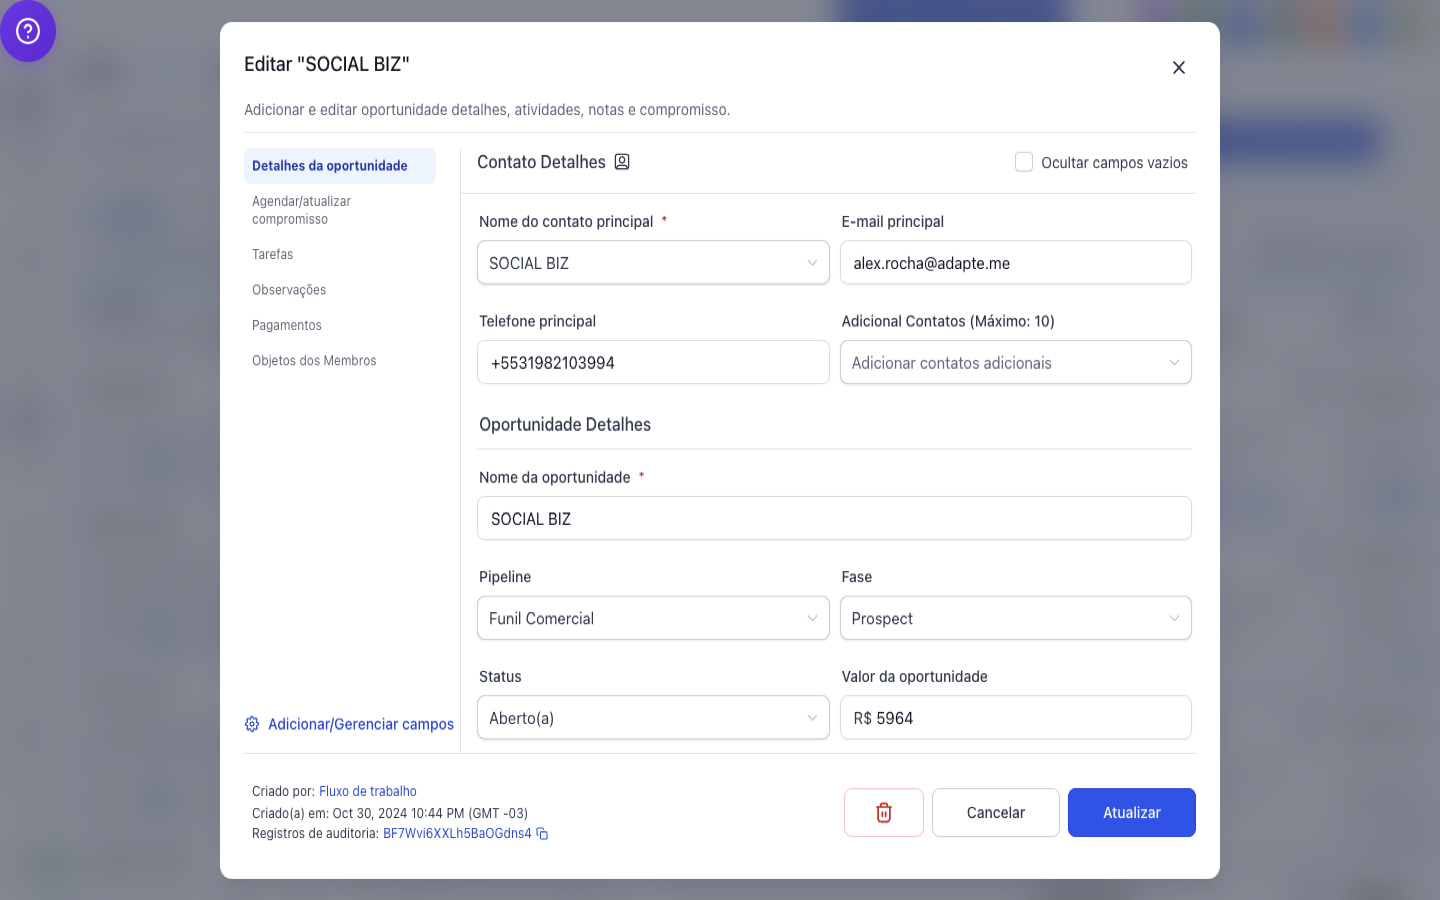
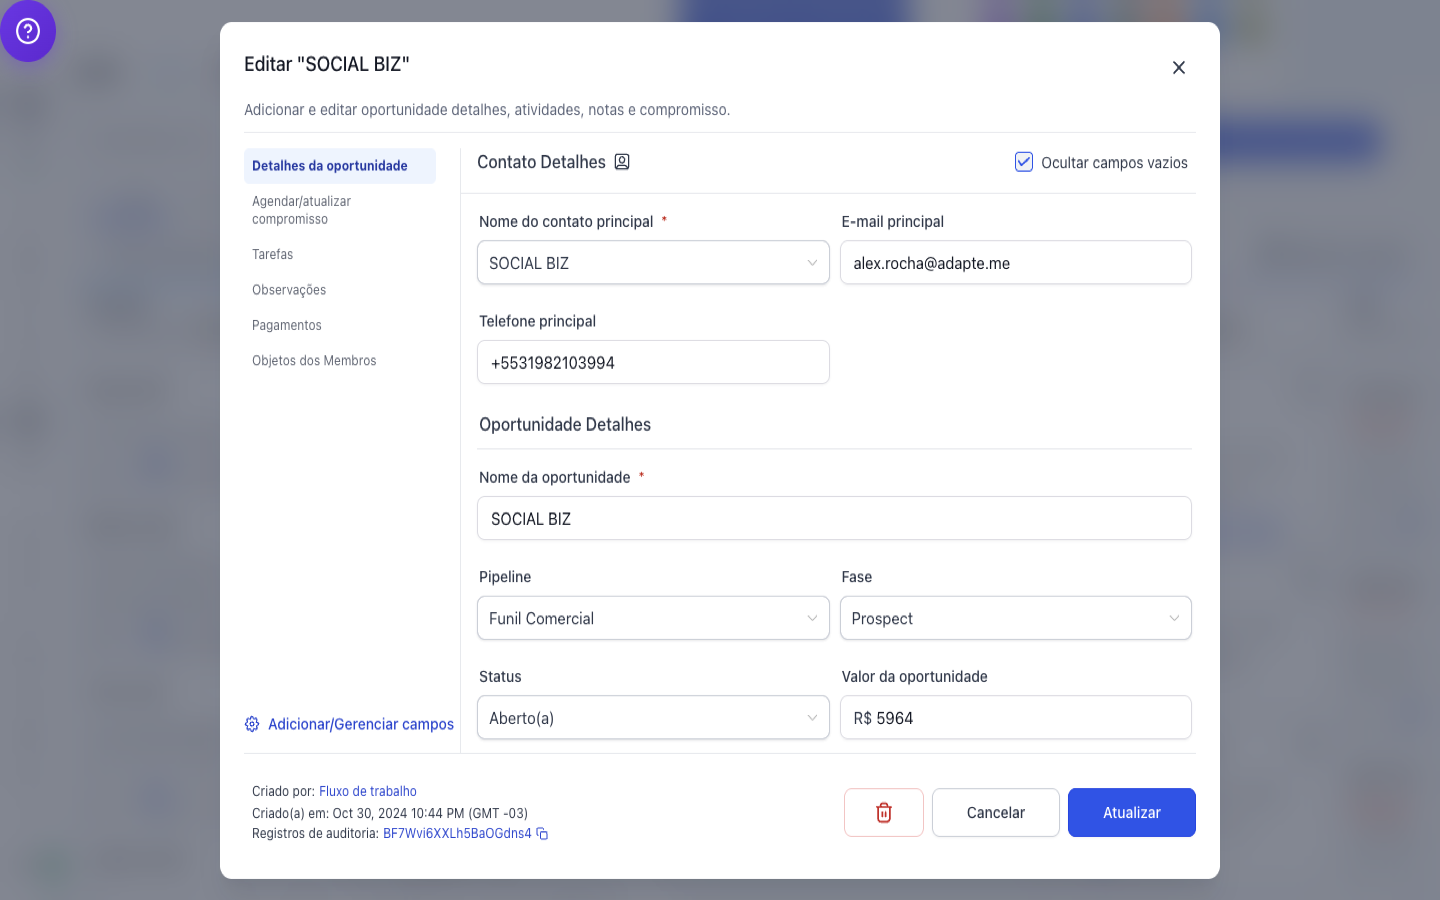
Fix tutorial labels: sidebar expandido, hotspots corrigidos, tooltip passo 6 reposicionada

diff --git a/tutorials/labels-oportunidades/index.html b/tutorials/labels-oportunidades/index.html
@@ -57,7 +57,7 @@
   }
   .screenshot-wrapper {
     position: relative; width: 100%;
-    border-radius: var(--radius); overflow: hidden;
+    border-radius: var(--radius); overflow: visible;
     box-shadow: var(--shadow); border: 1px solid var(--border);
     background: var(--card-bg);
   }
@@ -96,8 +96,7 @@
     max-width: 320px; min-width: 220px;
     transition: left 0.15s ease, top 0.15s ease;
     overflow-wrap: break-word;
-    max-height: 90%;
-    overflow-y: auto;
+    overflow: visible;
   }
   .tooltip-step {
     display: inline-block;
@@ -234,54 +233,54 @@
 const STEPS = [
   {
     image: "passo-01.png",
-    hotspot: { x: 0.5, y: 6, w: 3.5, h: 5 },
-    tooltip: { x: 8, y: 15 },
-    line: { x1: 4, y1: 9, x2: 8, y2: 20 },
+    hotspot: { x: 3, y: 41.5, w: 12, h: 4.5 },
+    tooltip: { x: 18, y: 30 },
+    line: { x1: 15, y1: 44, x2: 18, y2: 36 },
     title: "Acesse a seção 'Leads' no menu lateral",
-    text: "No menu lateral esquerdo, clique no ícone de 'Leads' (funil). Esta seção contém todas as suas pipelines e oportunidades de venda organizadas no formato Kanban.",
+    text: "No menu lateral esquerdo, clique em 'Leads'. Esta seção contém todas as suas pipelines e oportunidades de venda organizadas no formato Kanban.",
     tip: "💡 A seção de Leads é onde você gerencia todo o seu funil comercial — desde prospects até clientes fechados."
   },
   {
     image: "passo-02.png",
-    hotspot: { x: 5.5, y: 12, w: 16, h: 5 },
-    tooltip: { x: 28, y: 25 },
-    line: { x1: 14, y1: 17, x2: 28, y2: 30 },
+    hotspot: { x: 18, y: 12, w: 17, h: 18 },
+    tooltip: { x: 40, y: 8 },
+    line: { x1: 35, y1: 20, x2: 40, y2: 14 },
     title: "Selecione a pipeline desejada",
     text: "Clique no seletor de pipeline (dropdown) para escolher em qual pipeline você quer trabalhar. Cada pipeline representa um funil diferente — comercial, suporte, etc.",
     tip: "💡 Neste exemplo, vamos usar o 'Funil Comercial' que já possui oportunidades cadastradas. Escolha a pipeline que melhor se aplica ao seu caso."
   },
   {
     image: "passo-01.png",
-    hotspot: { x: 5.5, y: 41, w: 20, h: 15 },
-    tooltip: { x: 30, y: 30 },
-    line: { x1: 16, y1: 48, x2: 30, y2: 38 },
+    hotspot: { x: 17.5, y: 38, w: 19, h: 13 },
+    tooltip: { x: 40, y: 30 },
+    line: { x1: 27, y1: 45, x2: 40, y2: 36 },
     title: "Identifique e clique no card da oportunidade",
     text: "No kanban, localize o card da oportunidade que deseja etiquetar. Cada card mostra o nome do contato, valor e ícones de ações. Clique no card para abrir os detalhes.",
     tip: "💡 Os cards são organizados por colunas (fases). Você pode arrastar cards entre colunas para mudar a fase da oportunidade."
   },
   {
     image: "passo-05.png",
-    hotspot: { x: 33, y: 75, w: 25, h: 8 },
-    tooltip: { x: 62, y: 55 },
-    line: { x1: 46, y1: 79, x2: 62, y2: 65 },
+    hotspot: { x: 32, y: 74, w: 6, h: 8 },
+    tooltip: { x: 55, y: 55 },
+    line: { x1: 38, y1: 78, x2: 55, y2: 65 },
     title: "Encontre o campo 'Tags' nos detalhes",
     text: "No modal de edição da oportunidade, role para baixo até encontrar o campo 'Tags'. Ele fica abaixo dos campos de Status, Valor, Proprietário e Fonte da oportunidade.",
     tip: "💡 Se não estiver vendo o campo Tags, desmarque a opção 'Ocultar campos vazios' no canto superior direito do modal."
   },
   {
     image: "passo-06.png",
-    hotspot: { x: 33, y: 43, w: 22, h: 38 },
-    tooltip: { x: 60, y: 30 },
-    line: { x1: 44, y1: 55, x2: 60, y2: 40 },
+    hotspot: { x: 32.5, y: 45, w: 20, h: 34 },
+    tooltip: { x: 57, y: 30 },
+    line: { x1: 42, y1: 55, x2: 57, y2: 40 },
     title: "Selecione ou crie uma tag",
     text: "Ao clicar no campo Tags, um dropdown será aberto mostrando todas as tags disponíveis. Selecione uma tag existente ou digite uma nova palavra-chave para criar uma tag personalizada.",
     tip: "💡 Use o campo 'Pesquisar / Criar palavras-chave' para buscar tags existentes ou criar novas. Tags são ótimas para categorizar oportunidades por tipo, campanha, prioridade, etc."
   },
   {
     image: "passo-05.png",
-    hotspot: { x: 74, y: 86, w: 9, h: 5 },
-    tooltip: { x: 35, y: 60 },
-    line: { x1: 78, y1: 88, x2: 60, y2: 70 },
+    hotspot: { x: 72, y: 85, w: 8, h: 5 },
+    tooltip: { x: 35, y: 45 },
+    line: { x1: 76, y1: 88, x2: 55, y2: 58 },
     title: "Clique em 'Atualizar' para salvar! 🎉",
     text: "Após selecionar as tags desejadas, clique no botão azul 'Atualizar' para salvar as alterações. A tag será aplicada ao card da oportunidade e você poderá usá-la para filtrar e organizar seu pipeline.",
     tip: "💡 Depois de aplicar tags, você pode usar os 'Filtros avançados' na tela do kanban para filtrar oportunidades por tag específica. Isso facilita muito a gestão do seu funil!"
